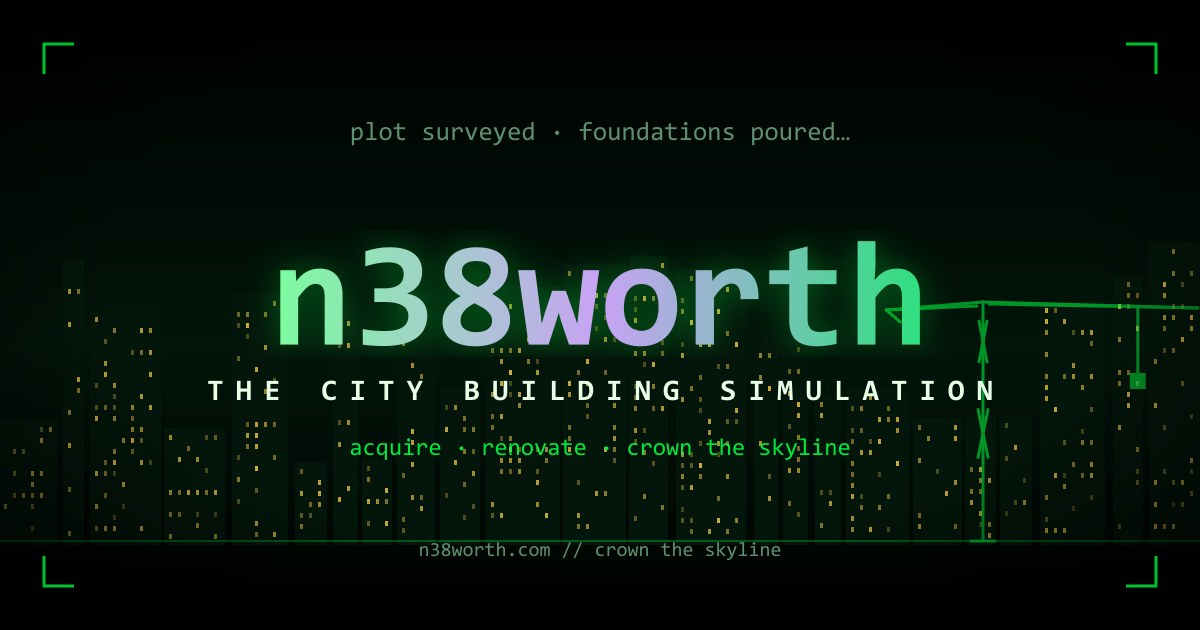
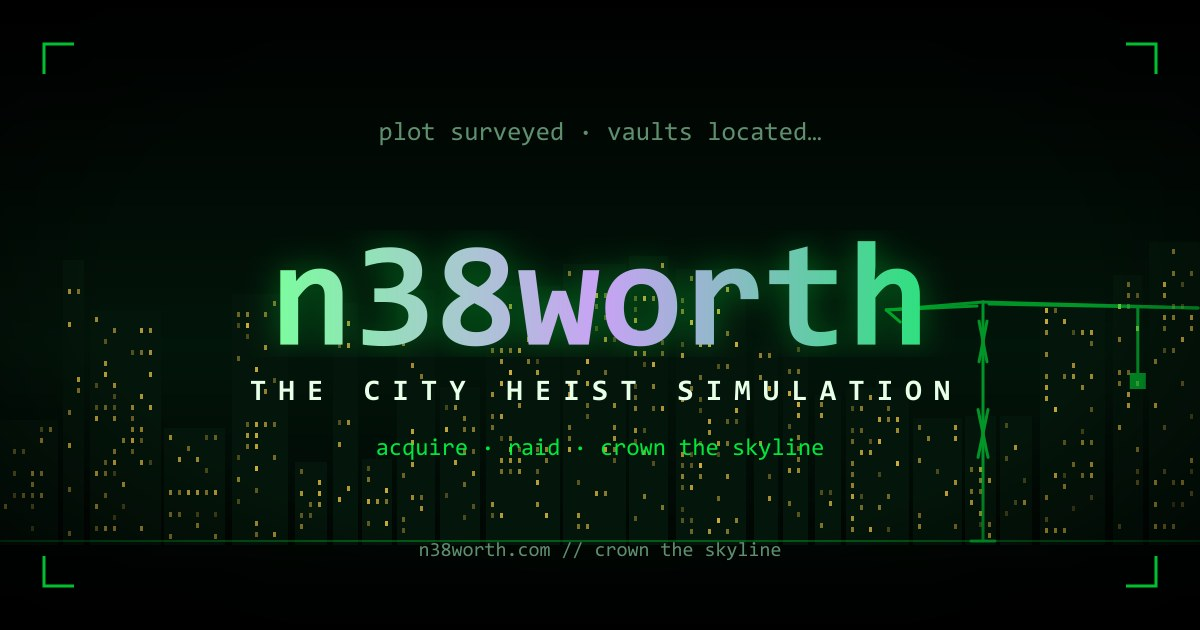
og: regenerate the social card for the heist identity
The OG/Twitter artwork still carried the previous rebrand's tagline (THE
CITY BUILDING SIMULATION / acquire · renovate) while the meta tags already
said the city heist simulation. gen-scifi-art.ts updated: tagline → THE
CITY HEIST SIMULATION, action line → acquire · raid · crown the skyline,
kicker → 'plot surveyed · vaults located…'. og.jpg regenerated (rest of
the placeholder set is seed-deterministic and unchanged).

diff --git a/scripts/gen-scifi-art.ts b/scripts/gen-scifi-art.ts
@@ -279,7 +279,7 @@ function ogSvg(w: number, h: number): string {
 
   <!-- Blueprint kicker -->
   <text x="${w / 2}" y="140" text-anchor="middle"
-        font-family="Consolas, 'Courier New', monospace" font-size="26" fill="#5f8f6f">plot surveyed · foundations poured…</text>
+        font-family="Consolas, 'Courier New', monospace" font-size="26" fill="#5f8f6f">plot surveyed · vaults located…</text>
 
   <!-- Wordmark (glow copy + gradient fill), mirroring the landing title -->
   <text x="${w / 2}" y="300" text-anchor="middle" dominant-baseline="middle"
@@ -292,10 +292,10 @@ function ogSvg(w: number, h: number): string {
   <!-- Tagline + action line -->
   <text x="${w / 2}" y="400" text-anchor="middle"
         font-family="Consolas, 'Courier New', monospace" font-weight="bold"
-        font-size="30" letter-spacing="12" fill="#e8ffe8">THE CITY BUILDING SIMULATION</text>
+        font-size="30" letter-spacing="12" fill="#e8ffe8">THE CITY HEIST SIMULATION</text>
   <text x="${w / 2}" y="455" text-anchor="middle"
         font-family="Consolas, 'Courier New', monospace"
-        font-size="24" fill="#00ff41" opacity="0.9">acquire · renovate · crown the skyline</text>
+        font-size="24" fill="#00ff41" opacity="0.9">acquire · raid · crown the skyline</text>
 
   <!-- Footer -->
   <text x="${w / 2}" y="${h - 74}" text-anchor="middle"
